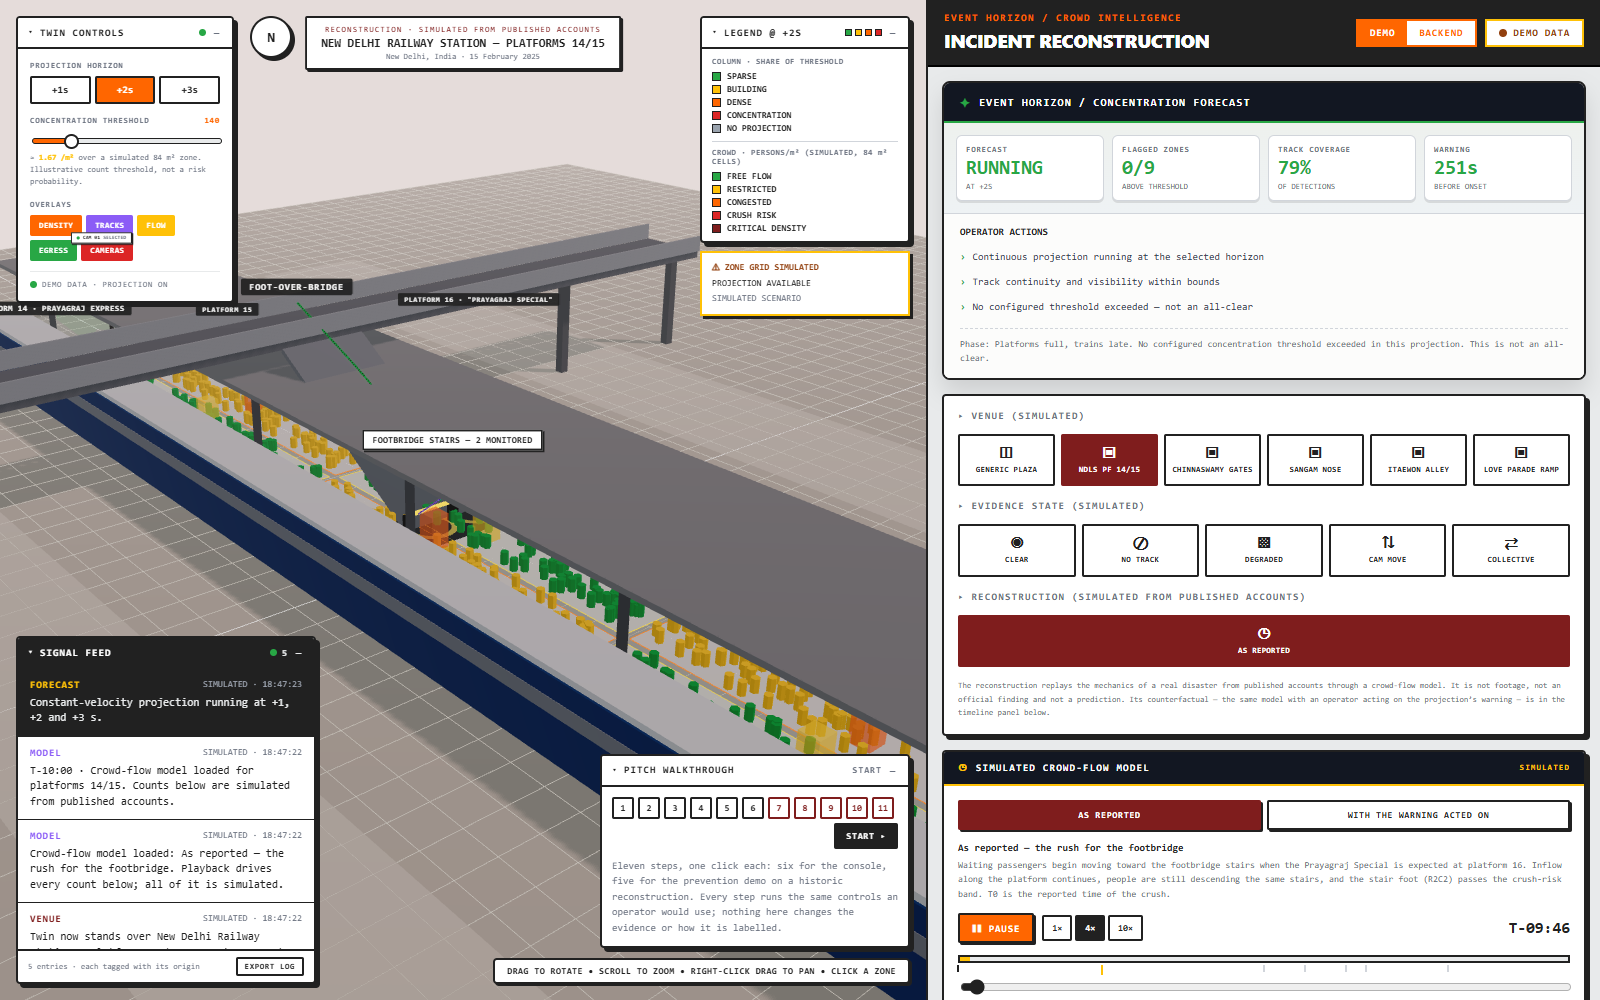
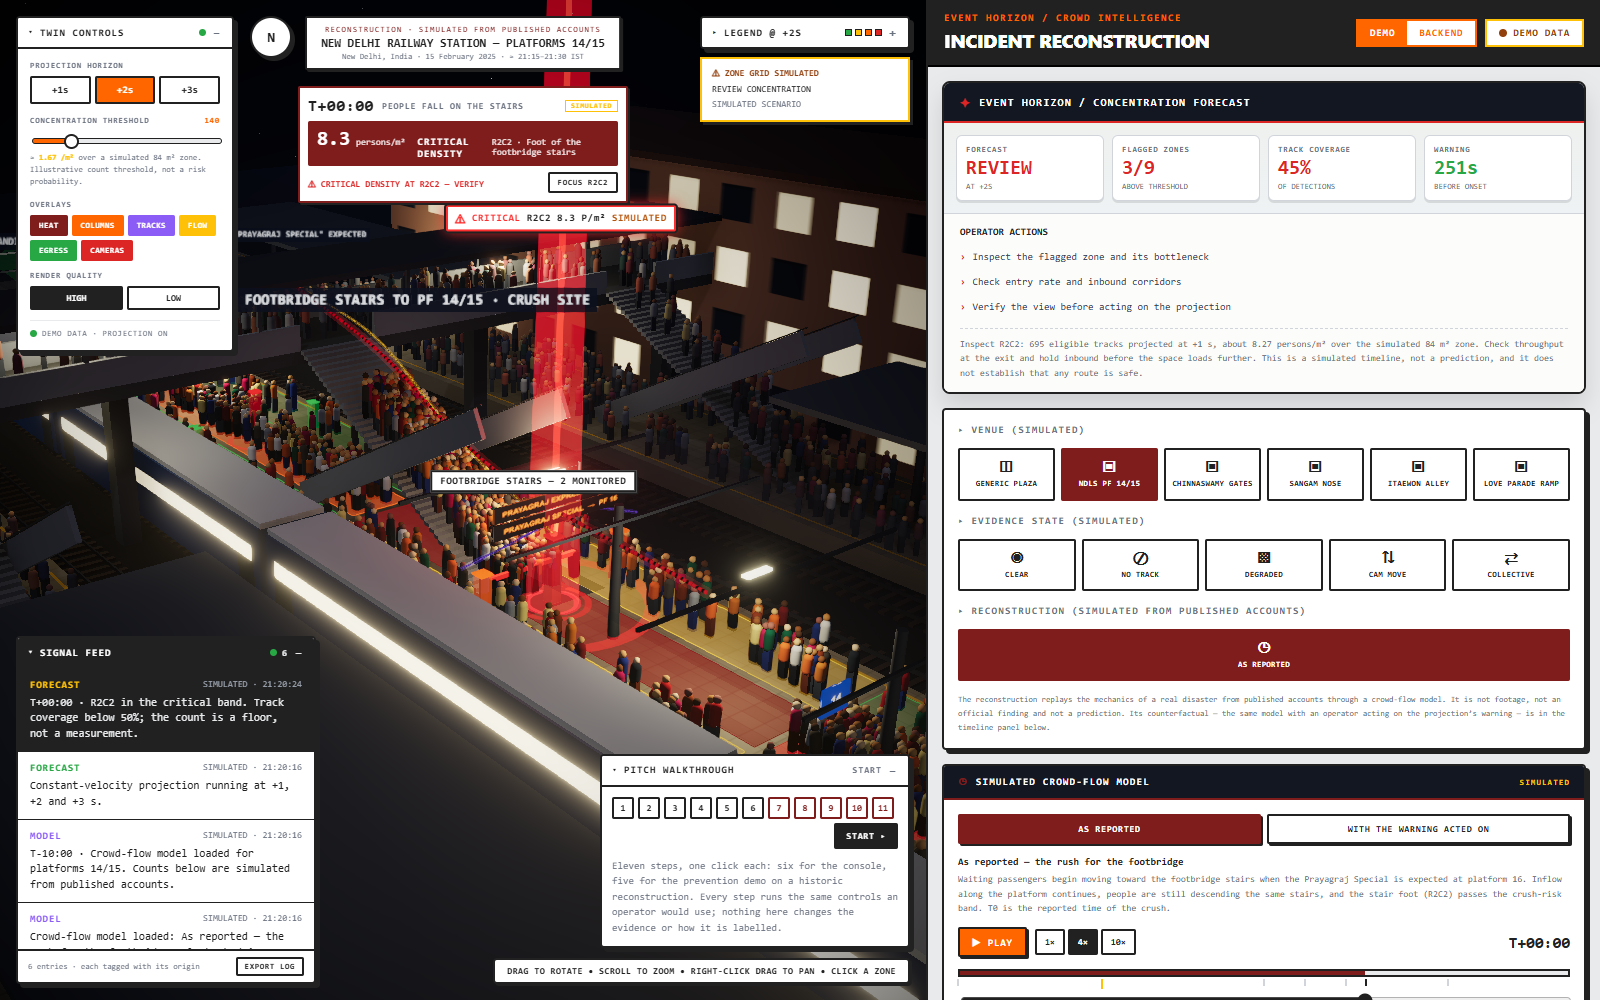
docs: realistic rendering and held arrivals in the READMEs
What the scenes show and how they are lit and rendered, the held-arrivals
column in the reconstruction table, venue styling keys for authors, and new
renders for screenshots 13 and 14.

diff --git a/README.md b/README.md
@@ -304,10 +304,38 @@ How it works:
   on both; the timeline panel compares peak density, time above crush risk and people held
   outside the camera's view. Move the threshold and the warning, the action and the outcome
   all move with it.
+- **Held, not deleted.** When the operator holds or meters arrivals, the model keeps those
+  people waiting outside the view instead of letting them vanish, and the comparison
+  reports how many were held. Holding a crowd has a cost; the console shows it.
 - **Honest about what it is.** The in-app incident brief carries the reported facts with
   their sources and disputed figures, lists where the model simplifies, and says in so many
   words that nothing here claims any death was preventable by software alone. Every count
   in a reconstruction is labelled SIMULATED, the same way the plaza's are.
+
+What you see:
+
+- **Each place at the hour it happened.** Night at New Delhi station (21:15), at the
+  Sangam (about 01:30 on a new-moon night) and in Itaewon (22:08); afternoon sun at the
+  Chinnaswamy gates and in Duisburg. Sky or stars, sun or moonlight with shadows, platform
+  lights, floodlights, street lamps, lit windows and neon, river water and haze.
+- **Rendering.** Ambient occlusion, bloom, ACES tone mapping and anti-aliasing through
+  `@react-three/postprocessing`, loaded after the first frame. RENDER QUALITY in the twin
+  controls (or `?quality=low` in the URL) turns the effects off for weaker machines.
+  Every texture is drawn procedurally in the browser; nothing is downloaded.
+- **People, not markers.** Instanced human figures in clothing that fits the event (red
+  and gold the day after the title, pilgrims' saffron and white shawls, Halloween
+  costumes, a summer rave). They walk, slow to a shuffle, sway and compress as density
+  rises, climb the footbridge stairs and walk the sloping alley and ramp.
+- **The incident, unmissable.** The analysed grid is a translucent heat overlay on the
+  floor; the densest zone carries a light beacon (amber when congested, red past crush
+  risk) and the strip above the twin shows the clock, the phase and the band, with a FOCUS
+  button that flies the camera to a close-up. In the close-up the beam and the columns
+  step aside so the people show, and labels keep a readable size at any distance.
+- **Muted means not counted.** People outside the analysed region (the next platform,
+  the street beyond the camera, the festival ground) and people the model holds outside
+  the view are drawn in muted colours and never enter a count. Held queues appear where
+  they wait: on the footbridge, at the MG Road junction, upstream on the Akhara route, at
+  the tunnel portals.
 
 ![New Delhi station reconstruction](docs/screenshots/13-reconstruction-ndls.png)
 
@@ -316,16 +344,18 @@ How it works:
 Default thresholds, lead times and outcomes at the console's default +2 s horizon
 (`node scripts/venue_check.mjs 2` reproduces the table):
 
-| Venue | Warning before onset of crush-risk density | As reported · peak | With the warning acted on · peak |
-| --- | ---: | ---: | ---: |
-| New Delhi station | 4 min 11 s | 8.3 P/m² | 2.9 P/m² |
-| Chinnaswamy gates | 54 s | 9.0 P/m² | 4.8 P/m² (0 s critical) |
-| Sangam nose | 4 min 06 s | 5.1 P/m² | 2.8 P/m² |
-| Itaewon alley | 2 min 23 s | 8.9 P/m² | 2.9 P/m² |
-| Love Parade ramp | 1 min 10 s | 9.0 P/m² | 3.8 P/m² (0 s critical) |
+| Venue | Warning before onset of crush-risk density | As reported · peak | With the warning acted on · peak | Most people held outside the view when acted on |
+| --- | ---: | ---: | ---: | ---: |
+| New Delhi station | 4 min 11 s | 8.3 P/m² | 2.9 P/m² | 1,384 |
+| Chinnaswamy gates | 54 s | 9.0 P/m² | 4.8 P/m² (0 s critical) | 11,111 |
+| Sangam nose | 4 min 06 s | 5.1 P/m² | 2.8 P/m² | 9,330 |
+| Itaewon alley | 2 min 23 s | 8.9 P/m² | 2.9 P/m² | 2,614 |
+| Love Parade ramp | 1 min 10 s | 9.0 P/m² | 3.8 P/m² (0 s critical) | 20,082 |
 
 These are properties of the simulation and of its authored parameters. They are reported
-so the demo can be reproduced, not as findings about the events.
+so the demo can be reproduced, not as findings about the events. The held numbers are the
+price of the counterfactual: people kept at the platform entry, the junction, the
+upstream barricade or the tunnel portals rather than in the crush.
 
 ---
 

diff --git a/frontend_editable/README.md b/frontend_editable/README.md
@@ -75,6 +75,21 @@ threshold and horizon because it acts at the projection's first crossing.
 Adding a venue means adding one file to `src/data/venues/` and registering it in
 `index.js`. Nothing in the components is venue-specific.
 
+A venue file also sets how its scene looks: `lighting` (day or night, sun or moon, haze,
+exposure), `ground`, `structures` drawn from a small library of primitives in
+`Structures.jsx` (platforms, rails and trains, stairs, canopies, a stadium facade, water,
+pontoons, tents, flags, watchtowers, buildings with lit windows, signs, lamps, floodlights,
+barriers, instanced forests, a stage), a `floor` slope and `walkable` stairs that figures
+stand on, a crowd `palette`, muted `ambient` crowds outside the analysed region,
+`holding` areas where the model's held arrivals wait, authored close-up `views` for
+the FOCUS button, and `overlay.beaconHeight` or `gateLabelAt` where the beacon or the
+exits label would stand in front of the crowd. Textures are procedural
+(`src/lib/textures.js`).
+
+Rendering: `PostFX.jsx` adds ambient occlusion, bloom, ACES tone mapping and SMAA via
+`@react-three/postprocessing`, in its own lazily loaded chunk. RENDER QUALITY in the twin
+controls, or `?quality=low` in the URL, switches it off.
+
 Two scripts keep the reconstructions honest. `npm run check:venues` runs every timeline
 in Node and prints when the projection warns, when the crowd reaches onset density, the
 lead between them and the peaks of both branches. `npm run verify:console` (with
@@ -106,8 +121,10 @@ src/
   store/useVenueStore.js      state, polling, actions, pure derivations
   store/derived.js            memoised hooks over those derivations
   components/digitalTwin/     VenueScene, VenuePlaza, Structures, ZoneTile, CrowdParticles,
-                              CrowdFlow, CameraMasts, ExitGates, SceneEffects, CameraRig,
-                              SignalOverlay, PitchGuide, OverlayPanel
+                              SceneryCrowd, IncidentBeacon, IncidentHud, TextSprite,
+                              CrowdFlow, CameraMasts, ExitGates, SceneEffects, PostFX,
+                              CameraRig, SignalOverlay, PitchGuide, OverlayPanel
+  lib/textures.js             procedural surface, sign and facade textures
   components/dashboard/       ForecastPanel, ScenarioControls, TimelineControls,
                               IncidentBrief, ZoneTelemetry, ZoneEmptyState, CameraPanel,
                               SourcePicker, VideoStage, ResponsePanel, AssistantPanel,
